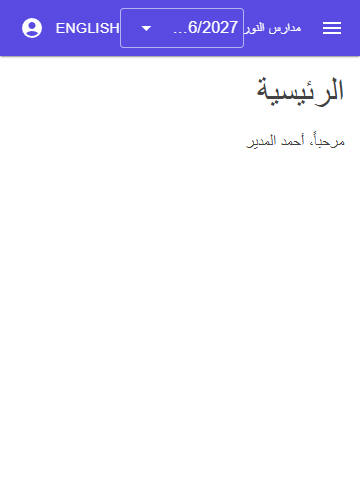
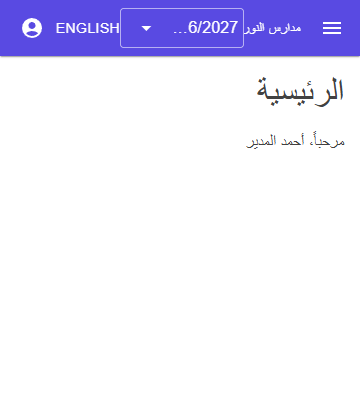
fix(client): load years only with AcademicYears.View; keep the app-bar context label and selector apart on phones

Changed region(s): [[0.0, 0.0, 1.0, 0.3], [0.7028, 0.33, 0.9167, 0.39], [0.9167, 0.36, 0.9472, 0.39]]

diff --git a/tests/Lms.Client.Tests/Services/YearStoreTests.cs b/tests/Lms.Client.Tests/Services/YearStoreTests.cs
@@ -12,7 +12,14 @@ public sealed class YearStoreTests : ClientTestContext
 {
     private static readonly DateOnly Today = DateOnly.FromDateTime(DateTime.Today);
 
-    private YearStore NewStore() => new(YearsApi, Context, JSInterop.JSRuntime, Services.GetRequiredService<NavigationManager>());
+    private YearStore NewStore() => new(YearsApi, Context, JSInterop.JSRuntime, Services.GetRequiredService<NavigationManager>(),
+        Services.GetRequiredService<PermissionState>());
+
+    private new async Task GrantAsync(params string[] permissions)
+    {
+        await base.GrantAsync(permissions);
+        await Services.GetRequiredService<PermissionState>().RefreshAsync();
+    }
 
     private static async Task Eventually(Func<bool> condition)
     {
@@ -23,7 +30,7 @@ public sealed class YearStoreTests : ClientTestContext
     [Fact]
     public async Task Defaults_to_current_year()
     {
-        await GrantAsync();
+        await GrantAsync(Lms.Shared.Authorization.Permissions.AcademicYears.View);
         var store = NewStore();
 
         await store.LoadAsync();
@@ -35,7 +42,7 @@ public sealed class YearStoreTests : ClientTestContext
     [Fact]
     public async Task Selection_persists_per_context()
     {
-        await GrantAsync();
+        await GrantAsync(Lms.Shared.Authorization.Permissions.AcademicYears.View);
         var assignment = Context.ActiveAssignmentId!.Value;
         var planned = YearsApi.AddYear(FakeUnits.GroupId, "مخطط", "Planned", Today.AddDays(400), Today.AddDays(700), AcademicYearStatuses.Planned);
         var store = NewStore();
@@ -60,7 +67,7 @@ public sealed class YearStoreTests : ClientTestContext
     [Fact]
     public async Task Context_change_reloads_years()
     {
-        await GrantAsync();
+        await GrantAsync(Lms.Shared.Authorization.Permissions.AcademicYears.View);
         var store = NewStore();
         await store.LoadAsync();
         Assert.Single(store.Years);
@@ -74,7 +81,7 @@ public sealed class YearStoreTests : ClientTestContext
     [Fact]
     public async Task Closed_year_sets_read_only()
     {
-        await GrantAsync();
+        await GrantAsync(Lms.Shared.Authorization.Permissions.AcademicYears.View);
         var closed = YearsApi.AddYear(FakeUnits.GroupId, "مغلق", "Closed", Today.AddDays(-700), Today.AddDays(-400), AcademicYearStatuses.Closed);
         var store = NewStore();
         await store.LoadAsync();
@@ -85,9 +92,36 @@ public sealed class YearStoreTests : ClientTestContext
     }
 
     [Fact]
+    public async Task Without_AcademicYears_View_the_years_api_is_never_called()
+    {
+        await GrantAsync(Lms.Shared.Authorization.Permissions.Roles.View);
+        var store = NewStore();
+
+        await store.LoadAsync();
+        await Context.SetAsync(Guid.NewGuid());
+        await Services.GetRequiredService<PermissionState>().RefreshAsync();
+
+        Assert.Empty(store.Years);
+        Assert.Equal(0, YearsApi.EffectiveCalls);
+    }
+
+    [Fact]
+    public async Task Permission_reload_after_a_context_change_reloads_the_years()
+    {
+        await GrantAsync(Lms.Shared.Authorization.Permissions.AcademicYears.View);
+        var store = NewStore();
+        await store.LoadAsync();
+        var calls = YearsApi.EffectiveCalls;
+
+        await Context.SetAsync(Guid.NewGuid()); // PermissionState reloads, then the store follows
+
+        await Eventually(() => YearsApi.EffectiveCalls > calls);
+    }
+
+    [Fact]
     public async Task Forbidden_years_call_leaves_the_store_empty_without_redirecting()
     {
-        await GrantAsync();
+        await GrantAsync(Lms.Shared.Authorization.Permissions.AcademicYears.View);
         YearsApi.EffectiveFailure = new ApiForbiddenException();
         var store = NewStore();
 

diff --git a/src/Lms.Client/Services/YearStore.cs b/src/Lms.Client/Services/YearStore.cs
@@ -31,11 +31,14 @@ public sealed class YearStore : IYearStore, IDisposable
     private readonly IContextStore _context;
     private readonly IJSRuntime _js;
     private readonly NavigationManager _navigation;
+    private readonly PermissionState _permissions;
 
-    public YearStore(IYearsApi api, IContextStore context, IJSRuntime js, NavigationManager navigation)
+    public YearStore(IYearsApi api, IContextStore context, IJSRuntime js, NavigationManager navigation, PermissionState permissions)
     {
-        _api = api; _context = context; _js = js; _navigation = navigation;
-        _context.Changed += OnContextChanged;
+        _api = api; _context = context; _js = js; _navigation = navigation; _permissions = permissions;
+        // Permissions are reloaded after every context change (and cleared on logout), so reacting to them covers both,
+        // and never asks the API with the permissions of the previous context.
+        _permissions.Changed += OnPermissionsChanged;
     }
 
     public IReadOnlyList<AcademicYearDto> Years { get; private set; } = [];
@@ -47,7 +50,8 @@ public sealed class YearStore : IYearStore, IDisposable
     public async Task LoadAsync(Guid? orgUnitId = null)
     {
         var assignment = _context.ActiveAssignmentId;
-        if (assignment is null)
+        // Without AcademicYears.View the API answers 403 and the HTTP pipeline would send the user to /forbidden: do not ask.
+        if (assignment is null || !_permissions.Has(Lms.Shared.Authorization.Permissions.AcademicYears.View))
         {
             Years = []; SelectedYearId = null;
             Changed?.Invoke();
@@ -101,7 +105,7 @@ public sealed class YearStore : IYearStore, IDisposable
         }
     }
 
-    private void OnContextChanged() => _ = LoadAsync();
+    private void OnPermissionsChanged() => _ = LoadAsync();
 
-    public void Dispose() => _context.Changed -= OnContextChanged;
+    public void Dispose() => _permissions.Changed -= OnPermissionsChanged;
 }

diff --git a/src/Lms.Client/Services/Api/FakeYearsApi.cs b/src/Lms.Client/Services/Api/FakeYearsApi.cs
@@ -23,6 +23,8 @@ public sealed class FakeYearsApi : IYearsApi
     public Exception? EffectiveFailure { get; set; }
     /// <summary>Unit asked in the last effective-years read (null = context default).</summary>
     public Guid? LastEffectiveUnit { get; private set; }
+    /// <summary>How many times the effective years were requested.</summary>
+    public int EffectiveCalls { get; private set; }
     public SaveAcademicYearRequest? LastYear { get; private set; }
     public SaveTermRequest? LastTerm { get; private set; }
     public SaveCalendarEventRequest? LastEvent { get; private set; }
@@ -64,6 +66,8 @@ public sealed class FakeYearsApi : IYearsApi
 
     public Task<YearContextDto> GetEffectiveAsync(Guid? orgUnitId, CancellationToken ct = default)
     {
+        EffectiveCalls++;
+        LastEffectiveUnit = orgUnitId;
         if (EffectiveFailure is { } failure) throw failure;
         var unitId = orgUnitId ?? FakeUnits.GroupId;
         for (var u = FakeUnits.All.FirstOrDefault(x => x.Id == unitId); u is not null;

diff --git a/tests/Lms.Client.Tests/Layout/YearSelectorTests.cs b/tests/Lms.Client.Tests/Layout/YearSelectorTests.cs
@@ -31,6 +31,7 @@ public sealed class YearSelectorTests : ClientTestContext
         var cut = await RenderAsync();
 
         Assert.Empty(cut.FindAll("[data-testid=year-selector]"));
+        Assert.Equal(0, YearsApi.EffectiveCalls); // asking would answer 403 and redirect to /forbidden
     }
 
     [Fact]
